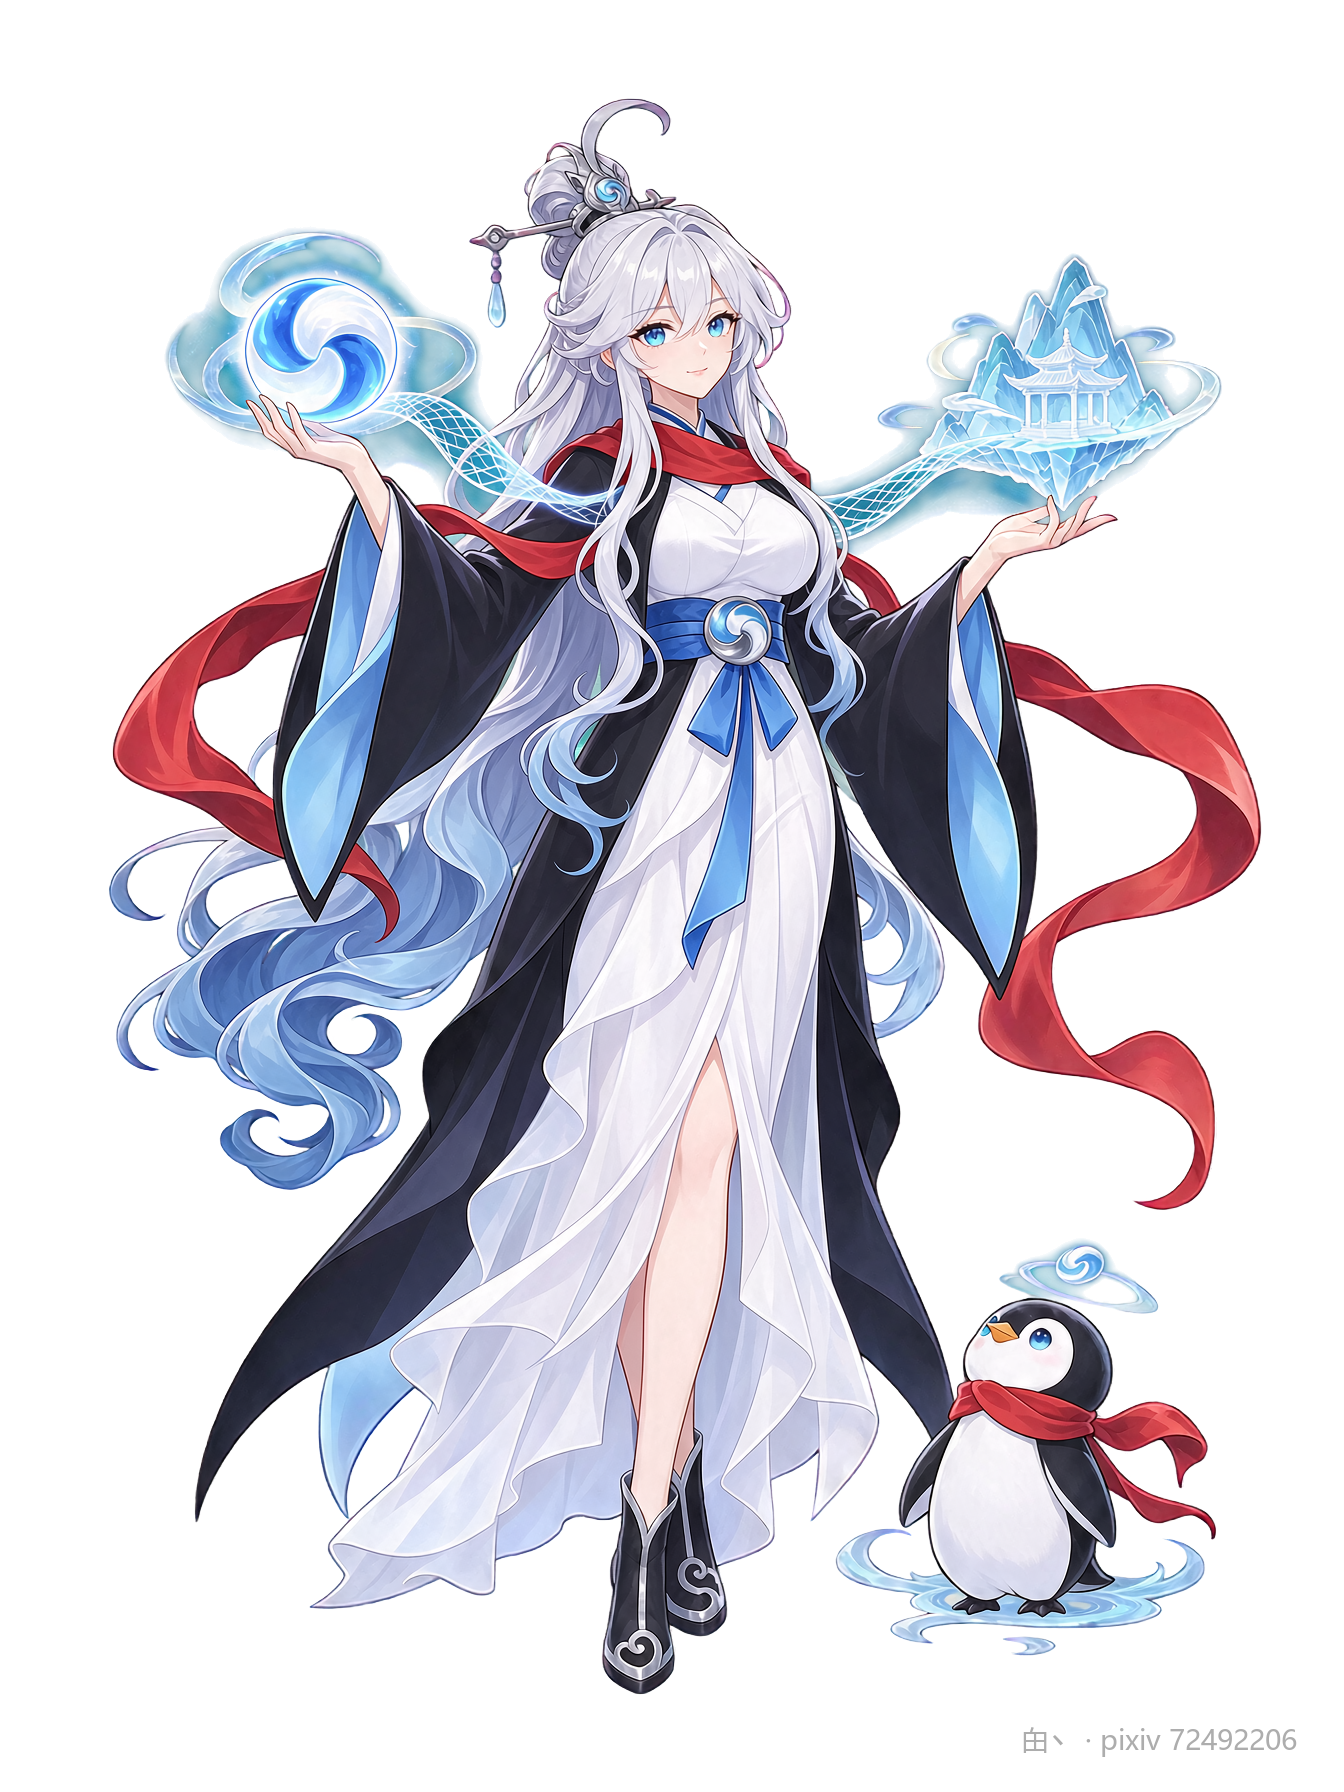
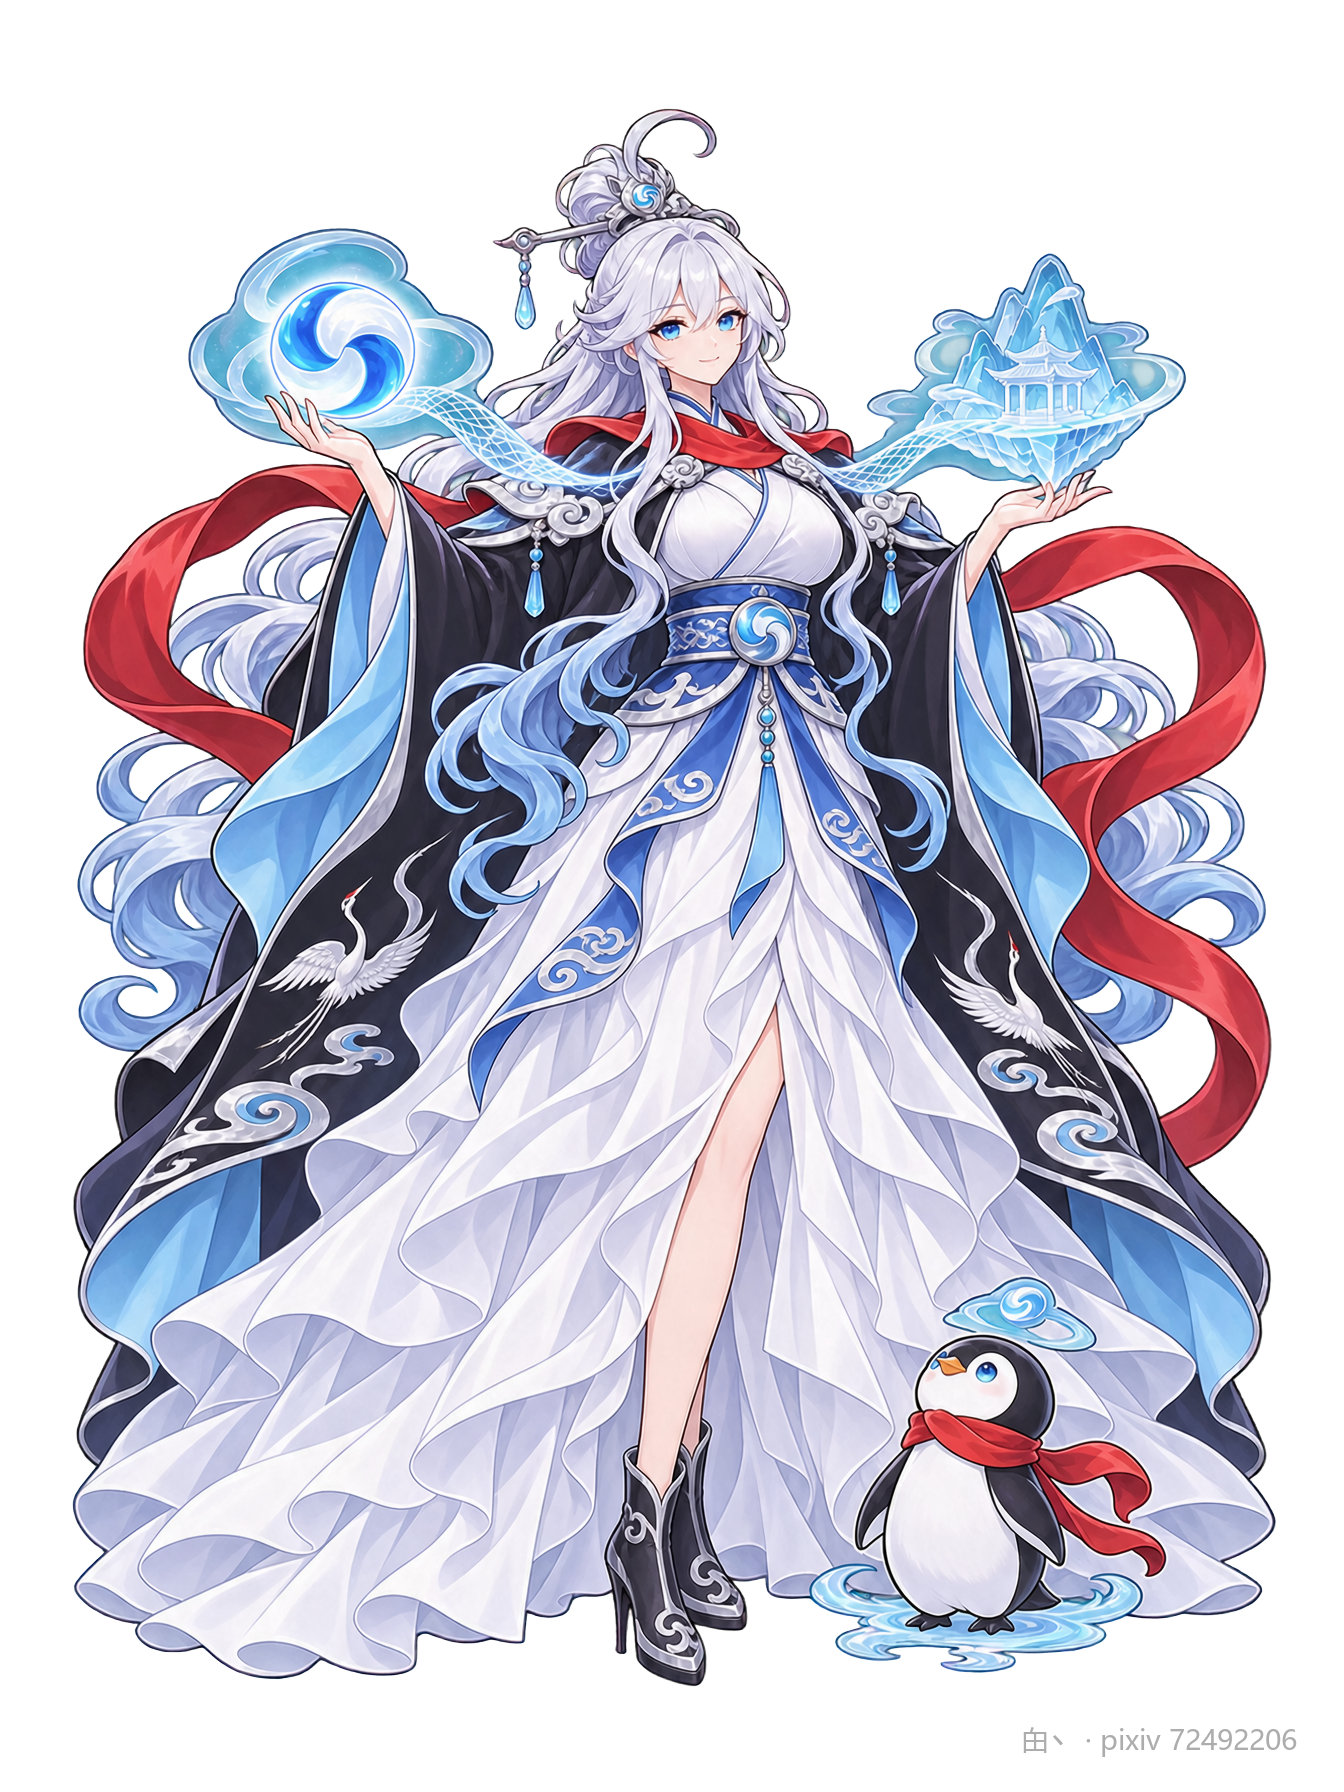
v1.8.1：升级混元娘大形态立绘（a 大 / b 大成熟高定剪裁与廓形重构）

diff --git a/CHANGELOG.md b/CHANGELOG.md
@@ -2,6 +2,16 @@
 
 格式：日期 · 版本 · 改了什么。物料会继续补齐，引用时建议带版本或日期。
 
+## v1.8.1 · 2026-11-24
+
+**升级混元娘大形态立绘（`hunyuan a 大` / `hunyuan b 大` 成熟高定剪裁与廓形重构）**
+
+- **`hunyuan a 大.png`（玄幻·成熟高定）**：重塑约 7.1 头身成熟丰满高挑体态，升级冷银云纹肩饰、广袖大摆玄黑礼仪鹤氅、层叠曳地高开衩净白流仙长裙与高跟银纹云靴，彻底拉开与中形态的轮廓气场差距
+- **`hunyuan b 大.png`（科幻·成熟高定）**：重塑约 7.1 头身成熟首席架构师廓形，将百褶短裙升级为纯白修身斜开衩高领一步长裙，搭配修肩窄袖大幅展开燕尾风衣与高跟黑白极地科技短靴，同步修正右手握笔解剖结构与肩线利落度
+- **增量替换**：仅增量重打上述 2 张图片纯白底水印并更新 `_md5.txt` 对应两行，其余 130 张图片零改动
+
+**现状**：10 角色 / 132 张，已收录的 10 位角色全部齐备 13 张标准物料包。
+
 ## v1.8 · 2026-11-24
 
 **新增混元娘全套 13 张标准物料包（腾讯自研大模型家族腾讯混元 Hunyuan）**

diff --git a/角色/hunyuan/设定.md b/角色/hunyuan/设定.md
@@ -24,7 +24,7 @@
   右手执 3D 空间建模光笔，左手戴玄黑半指操作手套托起带红绿蓝 XYZ 空间坐标轴、混元旋涡核、3D 线框企鹅与冰山未来城市地形的全息工作环；
   足侧反重力悬浮黑白六边形装甲烤漆、正红 LED 颈环的机械小企鹅无人机。
 
-**三档体型**：`小`（约 4.9 头身幼态娇小＋专属短巧幼装与双髻/双发揪）、`中`（约 6.2 头身，标准默认）、`大`（约 6.8 头身成熟高挑丰满，保留清秀御姐面容与修长匀称线条）。
+**三档体型**：`小`（约 4.9 头身幼态娇小＋专属短巧幼装与双髻/双发揪）、`中`（约 6.2 头身，标准默认）、`大`（约 7.1 头身成熟高挑丰满＋专属高定剪裁：`a 大` 升级冷银云纹肩饰、广袖礼仪鹤氅、层叠曳地流仙大裙摆与高跟云靴；`b 大` 升级修肩窄袖大幅展开燕尾风衣、纯白修身斜开衩高领一步长裙与高跟极地科技短靴）。
 
 ## 物料清单（13 张）
 
